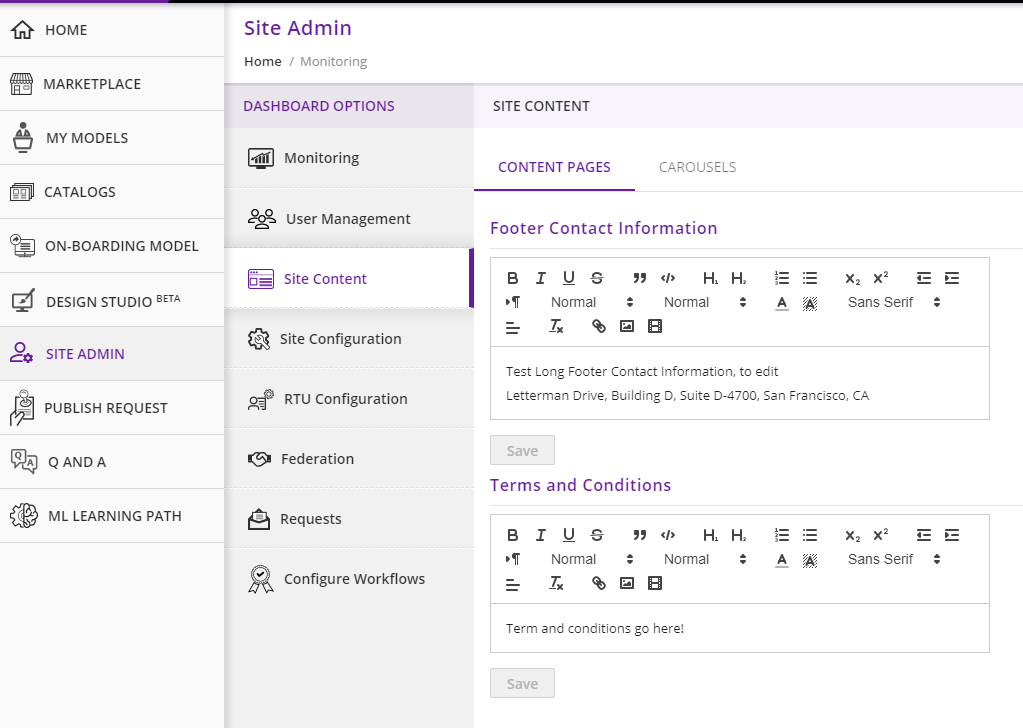
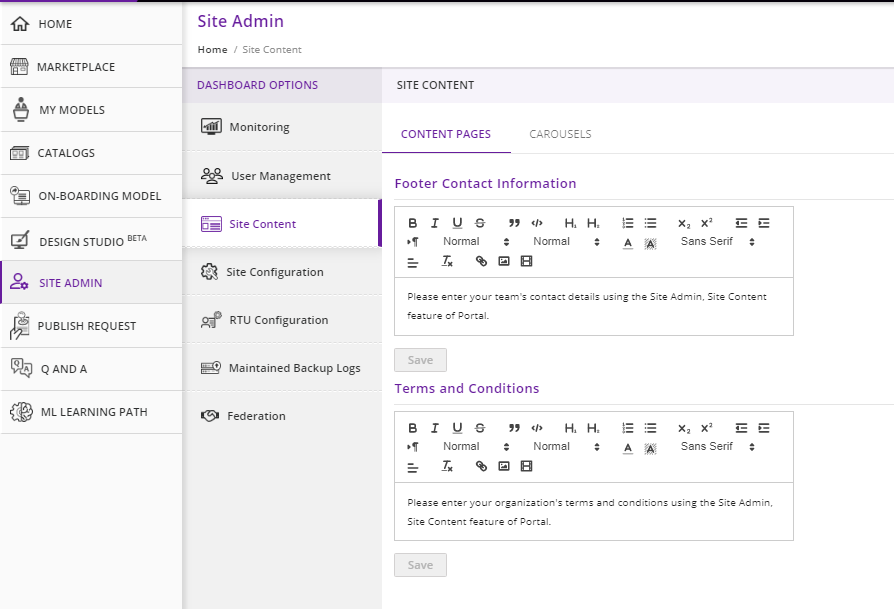
Admin Userguide Changes
Issue ID: ACUMOS-3478
Description : Portal User Guide : Few sections need to update

diff --git a/docs/user-guides/portal-admin/intro.rst b/docs/user-guides/portal-admin/intro.rst
@@ -40,9 +40,7 @@ The Admin Interface is a web-based tool for a site admin to:
 5. Manage Federation relationships: configure peer gateways and set up
    subscriptions to that peer’s public marketplace.
 
-6. Manage Federation requests for specific models.
-
-7. Configure RTU
+6. Manatained Backup Logs.
 
 Admin Access to the Acumos Portal
 ---------------------------------

diff --git a/docs/user-guides/portal-admin/site_content.rst b/docs/user-guides/portal-admin/site_content.rst
@@ -28,7 +28,7 @@ the site content of acumos site admin page.
 Go to **SITE ADMIN** of Acumos Portal page and click on **Site Content** tab , you can see 
 **Footer Contact Information** and **Terms and Conditions** under **CONTENT PAGES** panel.
 
-	.. image:: images/admin-site-content.png
+	.. image:: images/admin-site-content.PNG
                  :width: 75%
 
 

diff --git a/docs/user-guides/portal-admin/index.rst b/docs/user-guides/portal-admin/index.rst
@@ -30,10 +30,6 @@ Portal and Marketplace Admin Guide
    site_content.rst
    site_configuration.rst
    federation.rst
-   requests.rst
-   configure_workflows.rst
-   rtu_configuration.rst
-   addendum/index
    maintained_backup_logs.rst
 
 
